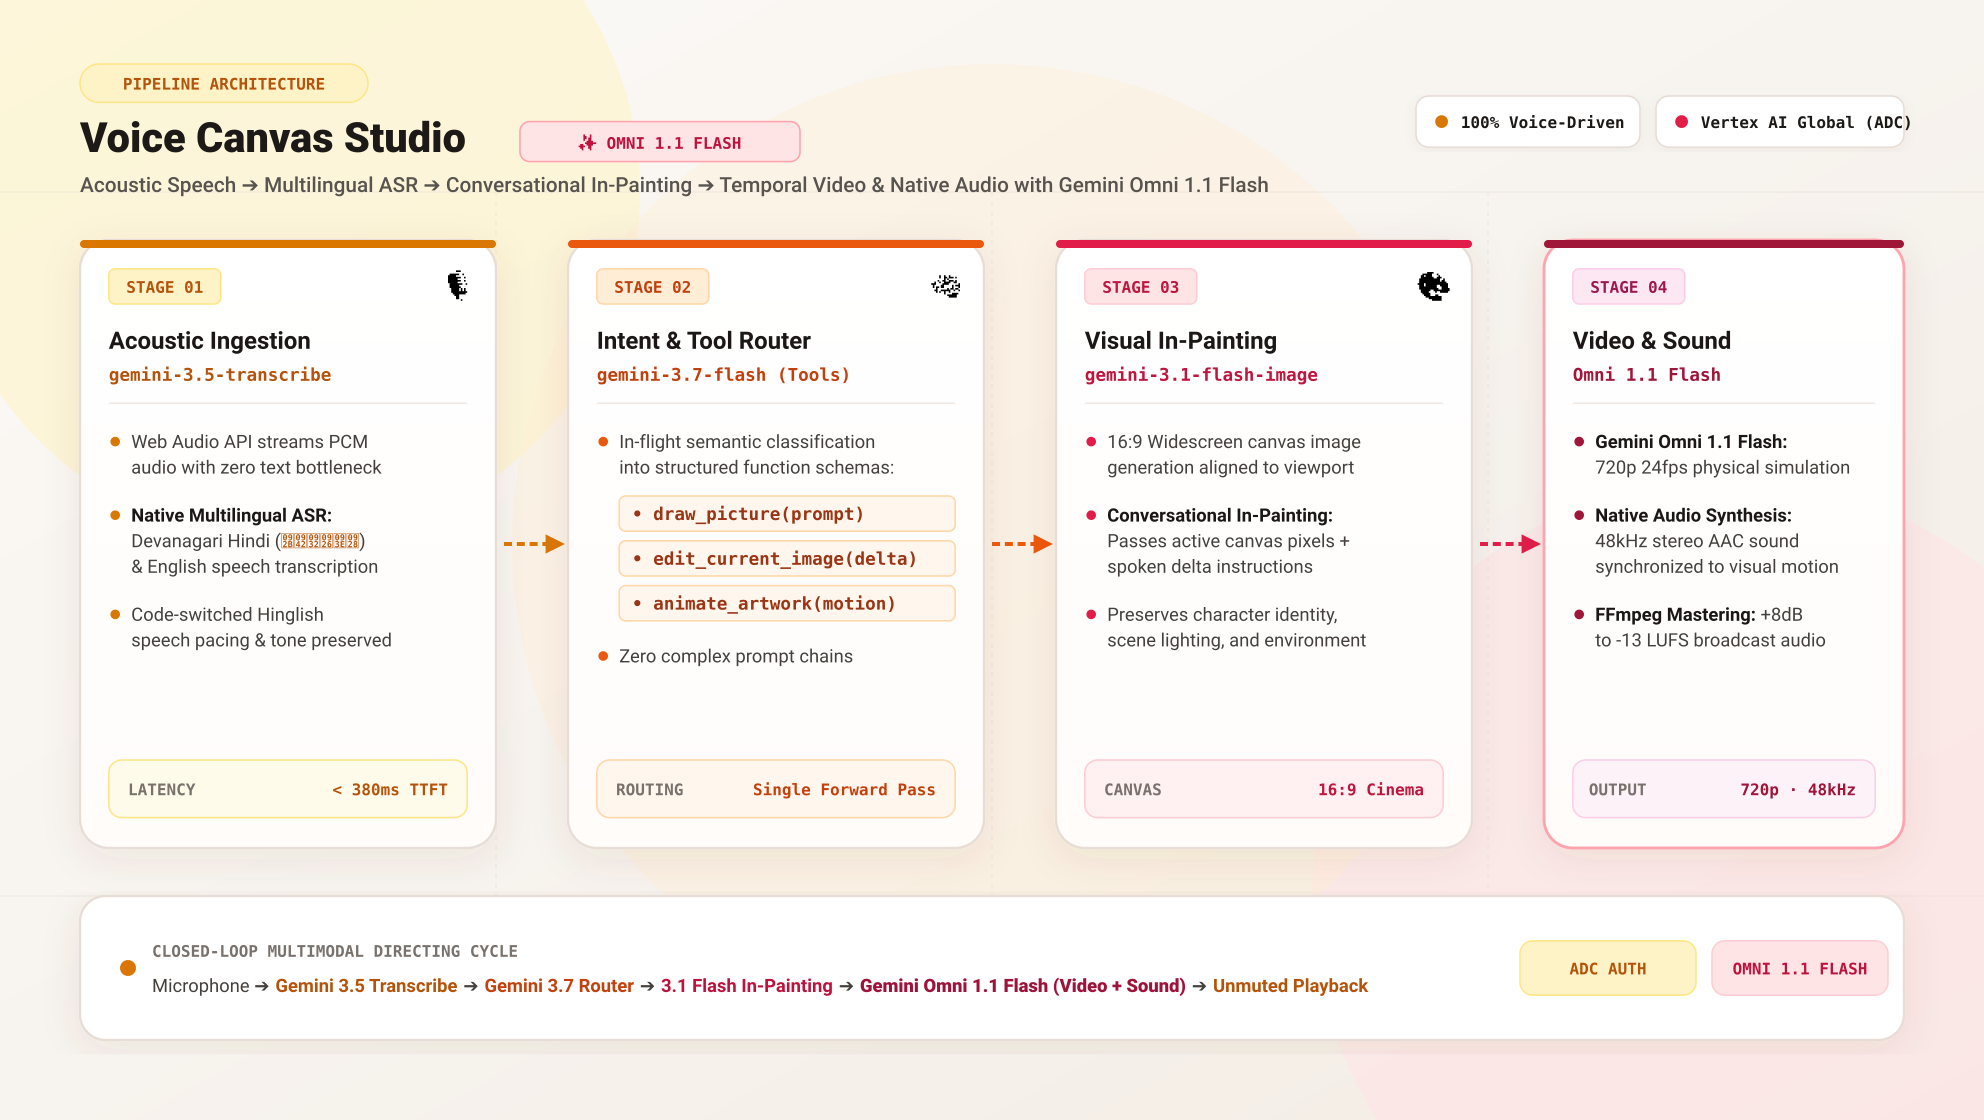
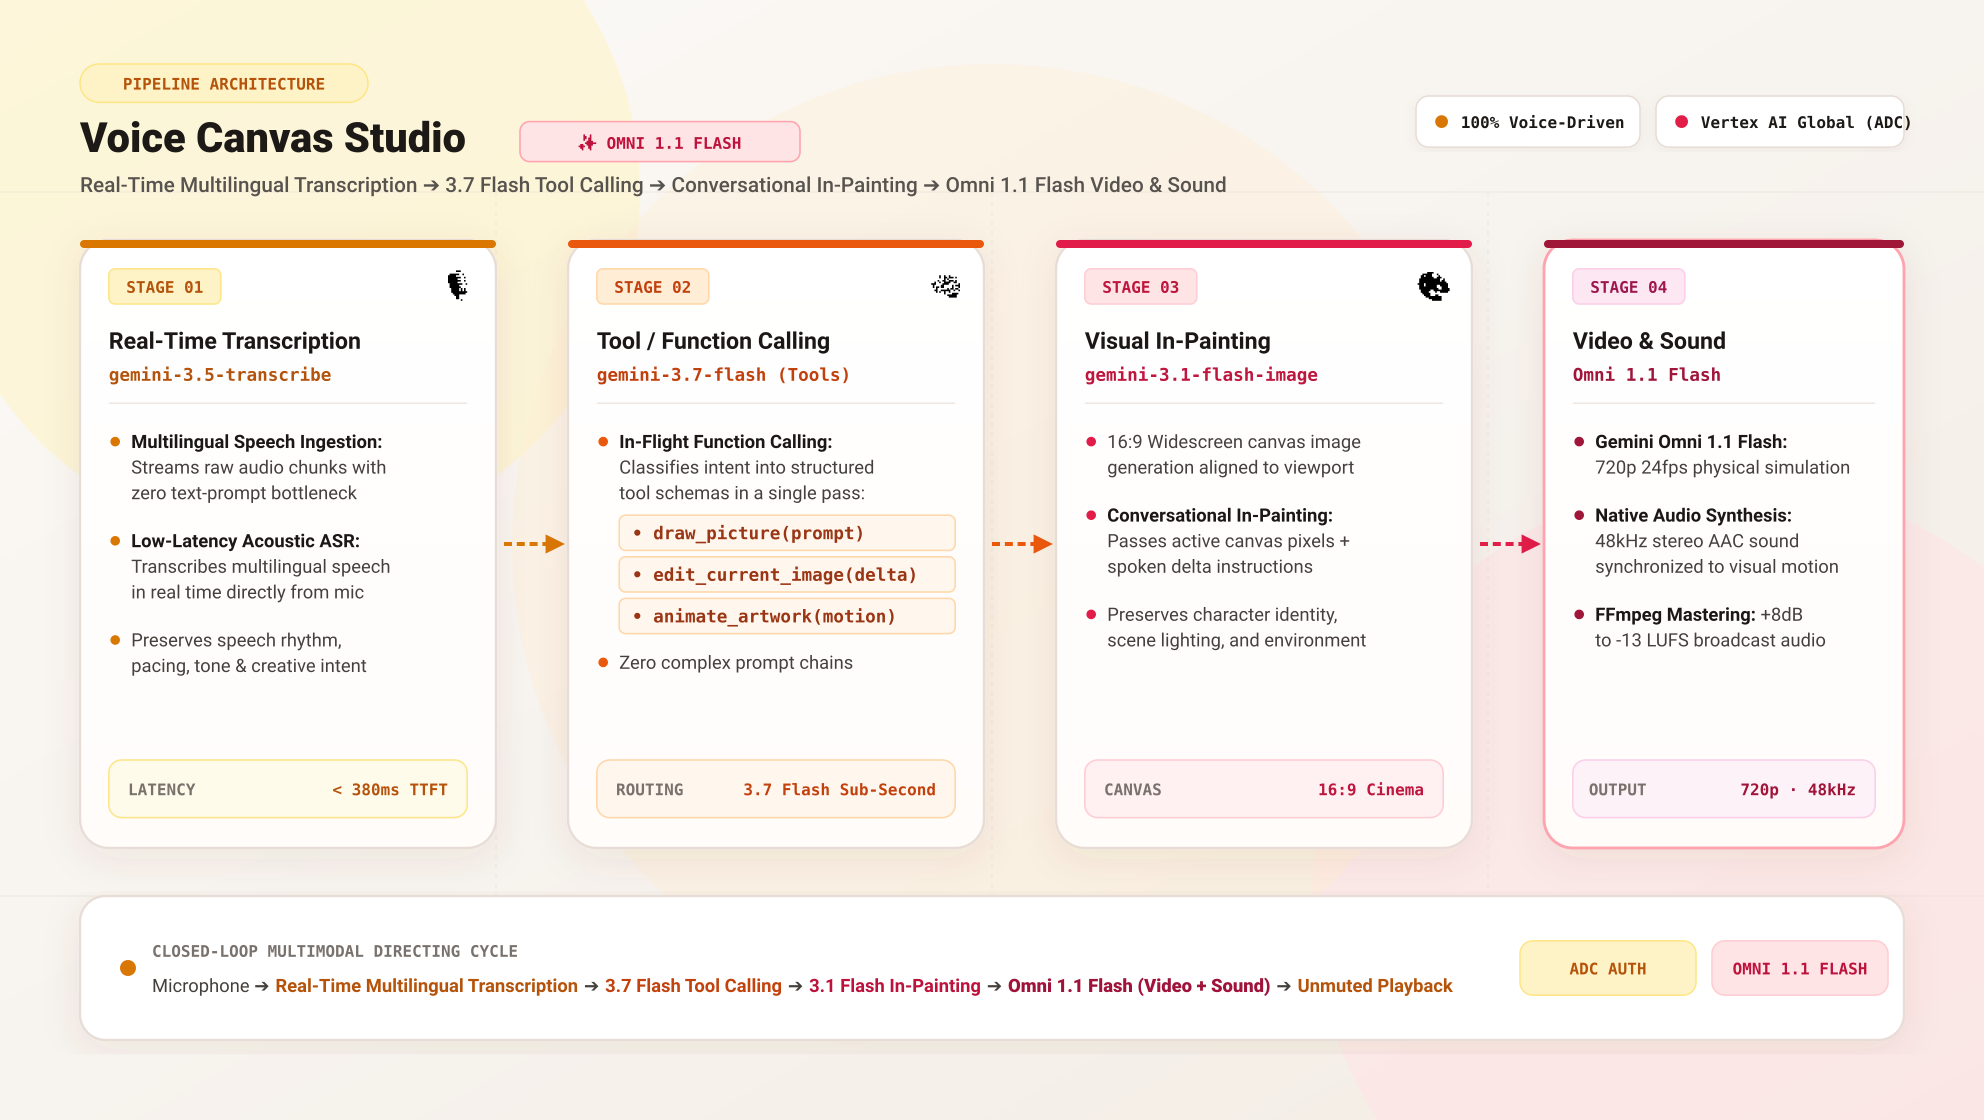
docs: emphasize real-time multilingual transcription and 3.7 flash tool calling

diff --git a/gemini35-voice-to-action/LINKEDIN_POST.md b/gemini35-voice-to-action/LINKEDIN_POST.md
@@ -10,8 +10,8 @@ You generate an image in one tool. You switch to another to edit it (and lose th
 
 Google Cloud recently rolled out four new GenMedia models on Vertex AI that change this dynamic:
 
-• Gemini 3.5 Transcribe: Real-time streaming speech recognition that natively handles English, Hindi (in Devanagari script), and Hinglish with zero text-prompt lag.
-• Gemini 3.7 Flash: Hybrid reasoning model for sub-second intent classification and function calling.
+• Gemini 3.5 Transcribe: Real-time multilingual speech recognition with low-latency streaming and zero text-prompt lag.
+• Gemini 3.7 Flash: Sub-second tool calling and function calling for in-flight intent routing.
 • Gemini 3.1 Flash Image: 16:9 widescreen image generation with conversational in-painting — modifying the scene without starting from scratch.
 • Gemini Omni 1.1 Flash: Temporal video generation (720p 24fps) that natively synthesizes synchronized 48 kHz stereo ambient audio in the same pass.
 
@@ -21,14 +21,14 @@ Here is the exact flow:
 
 1. Speak an idea:
 "Paint a roaring mountain waterfall in a dense green forest."
-➔ Transcribe captures the audio stream, and 3.1 Flash Image paints the 16:9 baseline.
+➔ Real-time multilingual transcription captures the audio stream, and 3.1 Flash Image paints the 16:9 baseline.
 
 2. Speak a revision:
 "Add a traditional wooden bridge crossing over the river."
-➔ The model takes the current canvas pixels + voice note and edits in-place, keeping the landscape, camera angle, and style intact.
+➔ 3.7 Flash routes the edit tool call, and 3.1 Flash Image edits in-place, keeping the landscape, camera angle, and style intact.
 
 3. Speak motion & sound:
-"Animate this with the sound of rushing water." (or in Hindi: "Ab iska video bana do with sound")
+"Animate this with the sound of rushing water."
 ➔ Gemini Omni 1.1 Flash generates the 24fps motion AND the matching stereo soundscape natively in one shot.
 
 The audio track is the biggest highlight here: Omni doesn’t just guess motion vectors; it synthesizes natural environmental acoustics (flowing water, wind, forest ambience) synced to the visual physics.

diff --git a/gemini35-voice-to-action/README.md b/gemini35-voice-to-action/README.md
@@ -26,12 +26,12 @@ flowchart TD
         Player["🎬 Video Player\n(Unmuted Audio & Sound Controls)"]
     end
 
-    subgraph Step1 ["1. Multilingual Acoustic Ingestion"]
-        GTranscribe["🗣 Gemini 3.5 Transcribe\n(gemini-3.5-transcribe-preview)\n• Low-latency streaming ASR\n• Native Hindi (Devanagari) & English"]
+    subgraph Step1 ["1. Real-Time Multilingual Transcription"]
+        GTranscribe["🗣 Gemini 3.5 Transcribe\n(gemini-3.5-transcribe-preview)\n• Low-latency streaming acoustic ASR\n• Real-time multilingual speech recognition"]
     end
 
-    subgraph Step2 ["2. Intent Routing & Structured Tool Calling"]
-        GFlash["🧠 Gemini 3.7 Flash\n(gemini-3.7-flash)\n• Function Calling\n• Semantic classification:\n  - draw_picture(prompt)\n  - edit_current_image(delta_prompt)\n  - animate_artwork(motion_prompt)"]
+    subgraph Step2 ["2. Tool Calling / Function Calling with 3.7 Flash"]
+        GFlash["🧠 Gemini 3.7 Flash\n(gemini-3.7-flash)\n• In-flight tool & function calling:\n  - draw_picture(prompt)\n  - edit_current_image(delta_prompt)\n  - animate_artwork(motion_prompt)"]
     end
 
     subgraph Step3 ["3. Iterative Visual Sculpting"]
@@ -57,9 +57,9 @@ flowchart TD
 
 ## 🌟 Key Capabilities
 
-### 1. Multilingual Voice Recognition (English + Hindi)
+### 1. Real-Time Multilingual Transcription
 * **Zero text bottleneck**: Voice streams directly to `gemini-3.5-transcribe-preview`.
-* Full native support for **Devanagari Hindi** (`फूलदान में सुंदर फूल रख दो`), English, and mixed Hinglish (`Is waterfall ko animate karo with sound`).
+* Low-latency acoustic ASR with real-time multilingual transcription.
 
 ### 2. Conversational Iterative Editing (No Re-drawing From Scratch)
 * Uses `gemini-3.1-flash-image` with multi-image in-context prompts.
